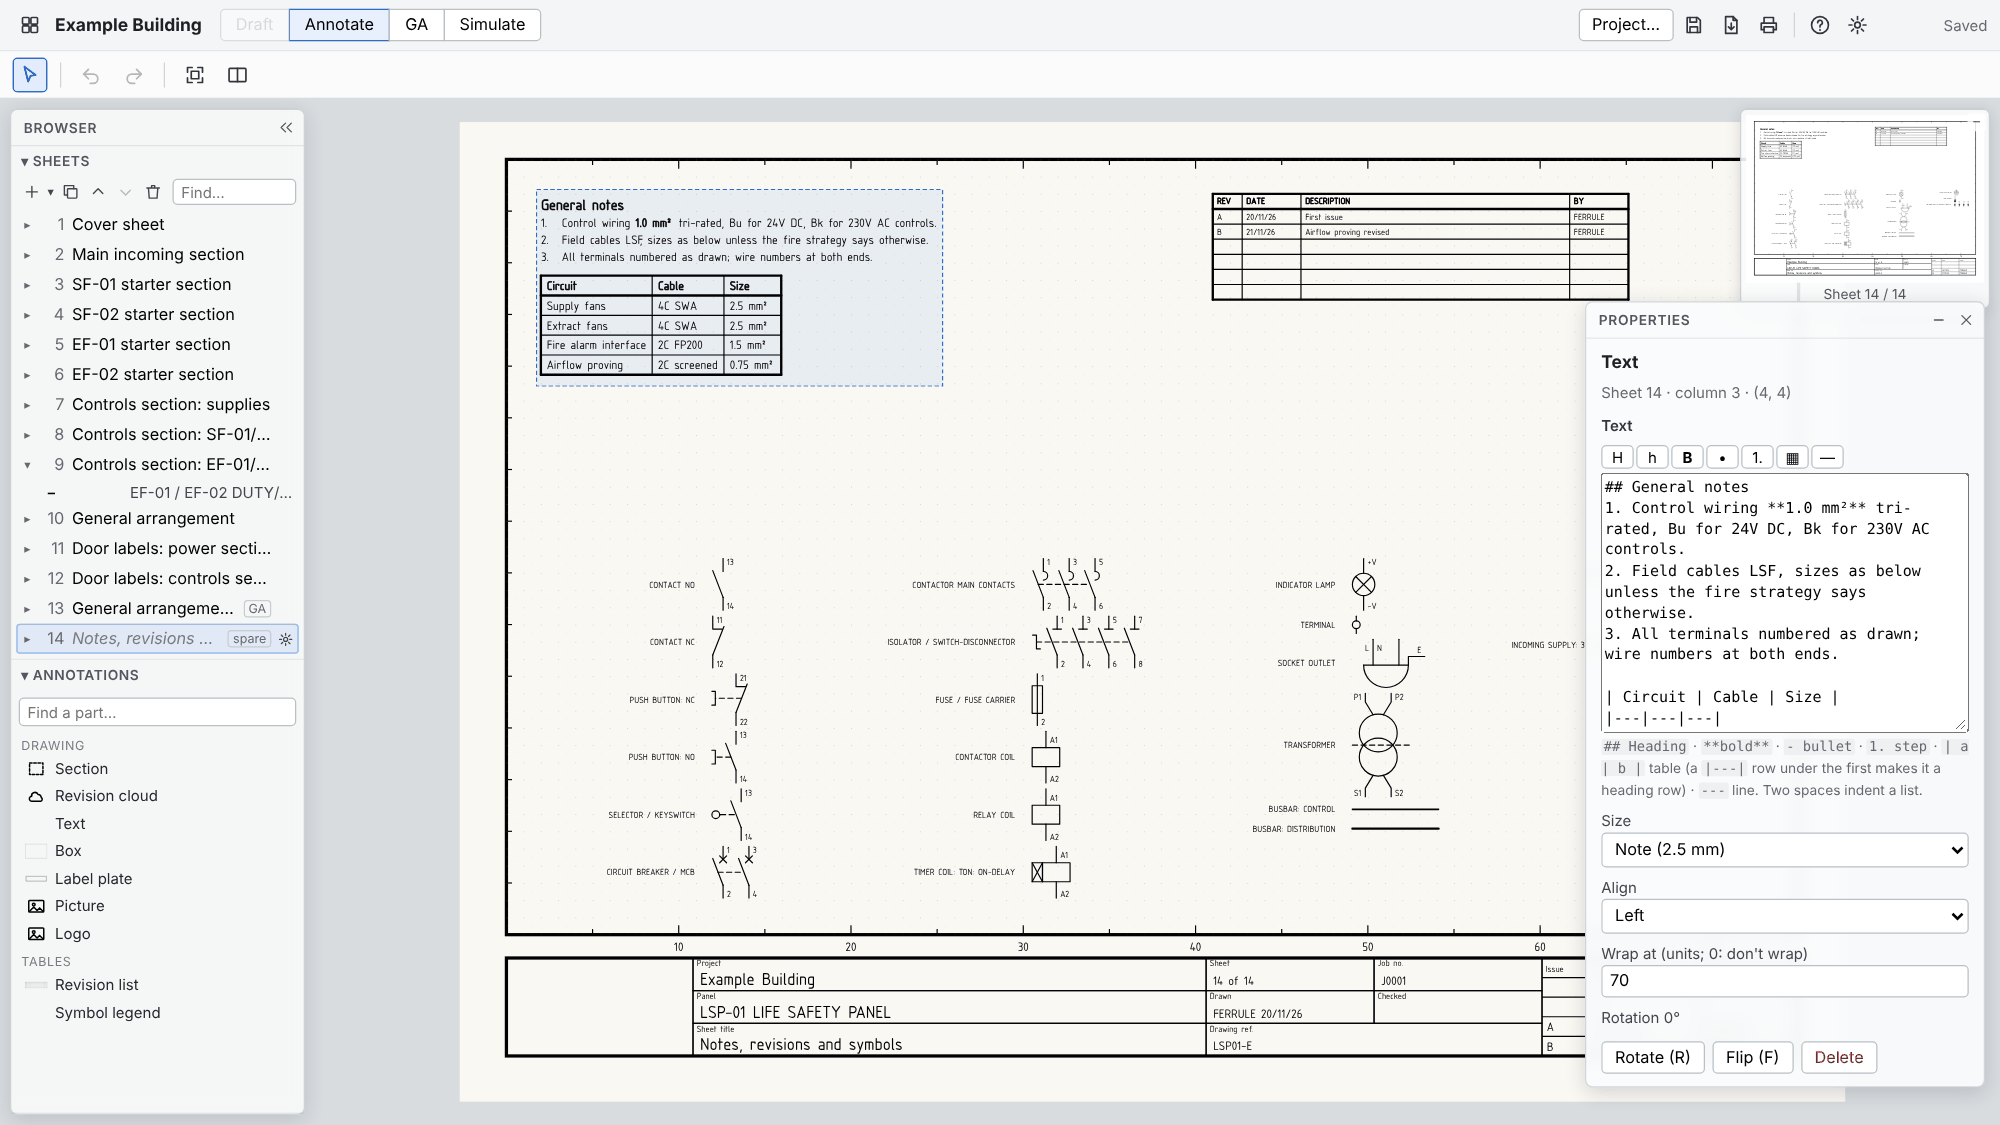
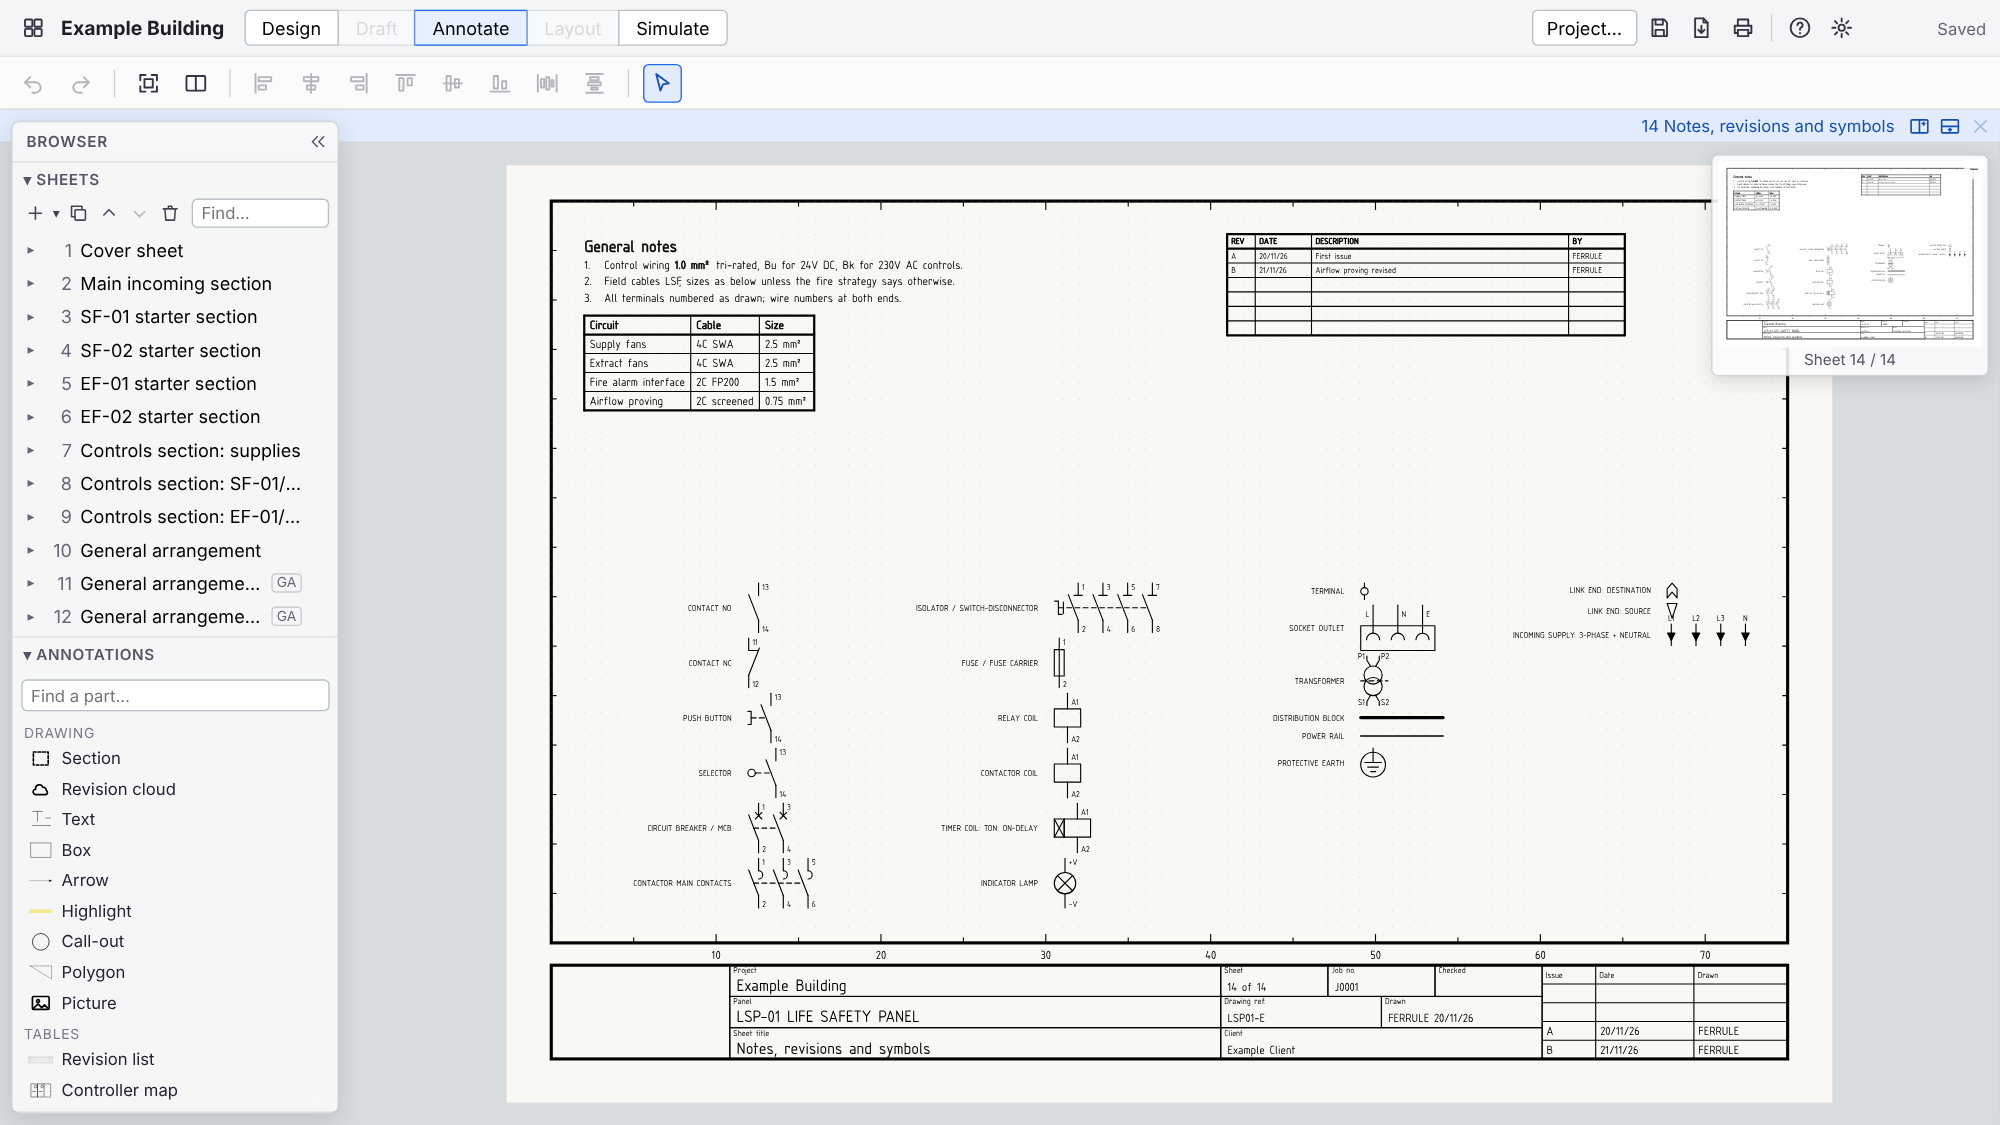
v0.5 step 7c: markers counted per connection (A28) (#133)
The Markers schedule puts a marker at each real end of a connection, where
a wire lands on a terminal or a part, never at a tee or a link end: a wire
carried across two sheets has two markers, not four. README pictures of
drafting, simulating, notes and the terminal block are retaken.

diff --git a/src/core/schedules.ts b/src/core/schedules.ts
@@ -155,14 +155,16 @@ export interface MarkerRow {
 }
 
 /**
- * Wire and core markers for a marker supplier (v0.4.x M10), one per wire
- * end. A panel wire has two, each the number of the terminal it lands on
- * (the first along the strip, if it lands on two), or with none, its own
- * number. A field core has two: at the panel end the terminal it goes into
- * (or its own number), at the field end the device's tag. A terminal's
- * number is read from the terminal itself, so a wire numbered by hand still
- * gets the terminal's. An end on a junction isn't a place a marker goes, so
- * it has none.
+ * Wire and core markers for a marker supplier (v0.4.x M10), one at each
+ * real end of a connection (v0.5 A28): where it lands on a terminal or a
+ * part. A tee (a junction) or a link end isn't a place a marker goes, so a
+ * wire carried across two sheets has two markers, not four. A panel wire's
+ * say the supply's number when it's on one (A23), else the terminal it lands
+ * on (the first along the strip, if it lands on two), or with none, its own
+ * number. A field core's say at the panel end the terminal it goes into (or
+ * its own number), at the field end the device's tag. A terminal's number is
+ * read from the terminal itself, so a wire numbered by hand still gets the
+ * terminal's.
  */
 export function wireMarkers(project: Project): MarkerRow[] {
   const rows: MarkerRow[] = [];
@@ -181,10 +183,11 @@ export function wireMarkers(project: Project): MarkerRow[] {
       const supply = !field && cond ? supplyOf(project, cond) : undefined;
       const panelText = supply ? String(supply.tag) : terms[0] ? displayTag(terms[0].el, project) || own : own;
       // A field core's field end: a device out in the field, not the terminal.
-      const fieldEnd = field ? (ends.find((e) => e.el!.zone === "external" && e.el!.symbol !== "terminal") ?? ends.find((e) => e.el!.symbol !== "terminal")) : undefined;
+      const real = (e: (typeof ends)[number]) => e.el!.symbol !== "junction" && e.el!.symbol !== "link";
+      const fieldEnd = field ? (ends.find((e) => real(e) && e.el!.zone === "external" && e.el!.symbol !== "terminal") ?? ends.find((e) => real(e) && e.el!.symbol !== "terminal")) : undefined;
       for (const e of ends) {
         const el = e.el!;
-        if (el.symbol === "junction") continue;
+        if (!real(e)) continue;
         const where = address(page, el.pos);
         if (field && e === fieldEnd) {
           const item = el.symbol === "plant-view" ? project.plant.find((p) => p.id === el.params.plant) : undefined;

diff --git a/src/core/v05step7.test.ts b/src/core/v05step7.test.ts
@@ -128,3 +128,22 @@ describe("step 7b: link ends in place of the link arrow (A27)", () => {
     expect(elementTexts(far, p).wireLabel).toBeUndefined();
   });
 });
+
+describe("step 7c: markers counted per connection (A28)", () => {
+  test("a wire carried across two sheets has two markers, one at each real end; none at a link end or a tee", async () => {
+    const { wireMarkers } = await import("./schedules");
+    const { p, pg } = sheet();
+    const k = addElement(p, pg, "contact", [20, 20]);
+    wire(p, pg, { terminal: [k.id, "14"] }, { free: [20, 40], label: "FAN RUN" });
+    const src = p.pages[0]!.elements.find((e) => e.symbol === "link")!;
+    const pg2 = addPage(p, "two").id;
+    const h = addElement(p, pg2, "lamp", [30, 40]);
+    wire(p, pg2, { free: [30, 20], linkTo: src.id }, { terminal: [h.id, "+V"] });
+    renumber(p);
+    const rows = wireMarkers(p);
+    expect(rows.length).toBe(2);
+    expect(rows.map((r) => r.where).sort()).toEqual(["1-11", "2-16"]);
+    // Both say the wire's one number.
+    expect(new Set(rows.map((r) => r.text)).size).toBe(1);
+  });
+});

diff --git a/README.md b/README.md
@@ -215,7 +215,7 @@ Everything else (Plant, Check, Schedules, Settings…) opens in a **window**: dr
 - **Controller…** (Design → Controller): the panel's controller (one per panel), its **modules in rail order** (power supply, host, DI, DO, UIO, AI, AO, with a channel count: a DI-8, a UIO-16) and any **spare slots**, with each slot's bus address (from rail order, or set to match its DIP switches). *Generate…* fills a module's pins from a pattern: the channels, each channel's pin ids (`VO RET CO`, `IO C`, `Y ⊥`), the first pin number, the names (`AO#` → AO1, AO2…), the first channel's number for makers that number across the controller, and any pin shared by several channels (a common `⊥`); *Pins and points…* touches up the rest. A channel's **label** follows the point allocated to it (*DPS1 flow*), and changes when that point or its plant is renamed or retagged; a channel with no point keeps a label typed by hand (*Pins and points…*). *Save model* keeps a module entered from its datasheet in the device table, pins and all (and from there in the shared library with its datasheet and GA size), so the next one is *Add a saved model…*. A module is tagged by where its first view is, prefix **A**: a DI module drawn at sheet 3, column 23 is `A3-23`, and its points are `A3-23:DI2`. *Place on sheet* in Design's **To draw** goes to Draft and puts it at the **top of a schematic sheet, terminals along the bottom**: a title row (`A3-23 · DI-8 · part of A2-5, AHU-1 outstation`), the heading, each channel's name, pin ids and numbers, and each point's label along its wire. Split a module across views and sheets by ticking the channels each shows (a break marks the cut edge); it keeps one tag, the continuation says where it carries on from, and a point drawn there is referred to with where it is, `A3-23:DO5 (4-10)`, so a reference always lands on the point. Wire every connection at the module, outputs that switch panel circuits out through link ends.
 - **Panel boundary:** tick it in the sheet settings. It's drawn as a **terminal block** across the sheet, with a little white space at each end: terminals placed on it (or dropped within a unit of it) become cells of the block with their number written up the cell (2.5 mm, like pin and wire numbers). Each cell is a column wide, so every terminal has its own column and its own number; one dropped closer than that to another moves along to the next free place. An earth terminal prints no number, just the earth sign centred in its cell (schedules and the GA still name it by its position). Panel wiring entering at the top and field cables leaving at the bottom. The strip name (`X1`) is at the left end of the block and again wherever the strip changes along it, so the cells only need the number (`3-13`); the terminal schedule lists them as `X1:3-13`, and a strip placed on the GA lists its terminals by sheet, then left to right. Drag the block (between terminals) to move it; its terminals go with it. Everything below is field equipment, and wires to it are drawn as dashed field cables. A wire crossing it without a terminal is flagged by **Check**.
 - **Section** (`B`, or *Section* in Annotate's parts): drag out a dashed section box. Drag its label to move it, any edge or corner to resize that side. Boxes and sections are picked by their edge, so parts inside them can still be clicked.
-- **Check** lists problems (boundary crossings, loose contacts, coils without contacts, unlinked link ends, duplicate tags, plant terminals shown nowhere or twice) with a *Show* button. **Schedules** gives terminal and field cable schedules (and below the cables, how many cores each field device needs and on which terminals), **markers** (two on every wire: a panel wire's say the terminal it lands on, or its own number with none; a field core's say the terminal at the panel end and the device's tag at the field end; *Group duplicates* gives each marker once with a count), the **IO schedule** (every controller's points: controller, module, point, form, pins, label and what it's wired to, through link ends too) and **plant points**, downloadable as CSV. Check also reports two modules at one bus address, modules not drawn or with no pins, and a controller with no modules.
+- **Check** lists problems (boundary crossings, loose contacts, coils without contacts, unlinked link ends, duplicate tags, plant terminals shown nowhere or twice) with a *Show* button. **Schedules** gives terminal and field cable schedules (and below the cables, how many cores each field device needs and on which terminals), **markers** (one at each real end of a wire, never at a tee or a link end, so a wire carried across two sheets has two: a panel wire on a supply says the supply's number, any other the terminal it lands on, or its own number with none; a field core's say the terminal at the panel end and the device's tag at the field end; *Group duplicates* gives each marker once with a count), the **IO schedule** (every controller's points: controller, module, point, form, pins, label and what it's wired to, through link ends too) and **plant points**, downloadable as CSV. Check also reports two modules at one bus address, modules not drawn or with no pins, and a controller with no modules.
 - **Tiles:** the drawing area can be split into tiles. **Split** in the top bar puts the active tile's sheet in a new tile beside it; each tile has a small bar with its sheet, *split right*, *split down* and *close* (the last sheet tile stays). Drag a divider to share the space. Every tile is a full sheet view with its own sheet, zoom and pan, and the same sheet can be open in two (an overview and a close-up). Click a tile to work in it: it's outlined, and the browser, Properties, the sheet list, the overview, Fit and `PgUp`/`PgDn` follow it. In **Simulate** every tile is live (states, live wires, clicks), sharing one simulation, and a door GA shows its lamps lit in their colour when their schematic lamps are lit (unlit ones dim): put the door in one tile and click the schematic in another. The door is for seeing only; the panel is worked through the circuit. **Windows go in tiles too:** every window (Plant, Templates, Schedules, Table, Controller, Distribution, Expectations, Check, Place parts, Project, Settings, help) can be dragged by its title bar close to the edge of a tile, which it splits; dragged anywhere else it just moves. Drag its tile out by the tile's bar to float it again; its menu button or the tile's close shuts it. Prompts (one step of an action, finished by a button: Renumber, Suggest, a name or a question) and the panels that come up by themselves (Properties, the Simulation panel) always float. Tiles aren't saved: a project opens with one.
 - **Align and distribute** (Draft, Annotate and Layout, the eight icons after Fit and Split, before Select): align left, centre or right, top, middle or bottom. One part picked aligns to the sheet (the space inside the border, above the title block), so a title can be centred on a cover sheet; two or more align to the last one clicked, which stays put; a box selection has no click order, so it aligns to the outline around them all. *Distribute across* or *down* (three or more) keeps the outer two and makes the gaps between them equal. Edges are a part's body, not its tag or label (the highlight on a part you've jumped to shows the same edges). Parts move as if dragged, to the grid, their wires following; GA items move in whole millimetres. Each is one undo step.
 - **Table** (a window) lists every element in the project: filter by type, plant or text, edit tags and labels in place, and tick rows to find-and-replace or fix tags in bulk (*Tag fixed*).

diff --git a/docs/functional-specification.md b/docs/functional-specification.md
@@ -738,7 +738,7 @@ Design's findings appear only once a project uses Design.
 - **SC-2** CSV files are named `<drawing ref., or the project id> <schedule>.csv`.
 - **SC-3** **Terminals:** Strip, Terminal, Sheet-col, Wire, Internal, External. A terminal is listed as `X1:3-13`.
 - **SC-4** **Field cables:** Plant, Description, Plant terminal, Wire, Panel terminal, Sheet-col; and below, **cores per device** (how many cores each field device needs and on which terminals), with its own CSV.
-- **SC-5** ~~**Markers:** two on every wire.~~ *(v0.5: A28)* A panel wire on a supply says the supply's number; any other panel wire says the terminal it lands on, or its own number when it reaches none. A field core's say the terminal at the panel end and the device's tag at the field end. *Group duplicates* gives each marker once with a count. Renumber first.
+- **SC-5** **Markers:** one at each real end of a wire, where it lands on a terminal or a part; not at a tee or a link end, so a wire carried across two sheets has two. A panel wire on a supply says the supply's number; any other panel wire says the terminal it lands on, or its own number when it reaches none. A field core's say the terminal at the panel end and the device's tag at the field end. *Group duplicates* gives each marker once with a count. Renumber first.
 - **SC-6** **IO points:** Controller, Module, Point, Form, Pins, Label, Wired to (followed through link ends). With no controller it says *No controller yet (Design → Controller)*.
 - **SC-7** **Plant points:** Device, Description, Point, Form, Pins, Wired to.
 - **SC-8** **Bill of materials:** GA sheet, Item, Maker, Part number, Qty, Unit, Tags. It's counted from the GA sheets only: devices by the device picked (or their generic size), each distribution block on a line of its own saying the ways it needs (*needs at least 5 ways*), terminals each, label plates, and DIN rail and trunking by length. A schematic part never placed on a GA isn't on it (CK-41). *(v0.5: A71. Also as a table placed on a GA sheet)*

diff --git a/docs/DESIGN.md b/docs/DESIGN.md
@@ -391,6 +391,7 @@ Reference drawings from other companies are proprietary. They are never committe
 | Title block rows, v0.5 (2026-11-27) | A1 laid out again (`titleblock.ts`): Sheet, Job no., Checked in thirds; Drawing ref., Drawn in halves; Client across. No file change |
 | One wire label, turned text, v0.5 step 7a (2026-11-27) | A26: `wireTexts` (`wires.ts`) lays out number then colour in the reading direction around one point (`labelAround`): the longest leg's middle, or `Segment.labelAt`, set by `setWireLabelAt` (`numberAt`, `colourAt` and `reverseSegment` gone). The function no longer prints. A29: `SymbolDef.turnsText`; `nextRotation` and `allowedRotation` keep a text level or at 270, where `localGeometry` turns its prims and makes its text vertical. File format 12 |
 | Link ends, v0.5 step 7b (2026-11-27) | A27: the `offpage` part is the `link` symbol (`palette: false`): outlined head (source) or notched tail (destination), struck through until linked, terminal at its origin. `WireEnd` gains `{free}`; `wire()` makes the link end, turned by `linkEndTurn`, and links it when carried on (`linkTo`). `connect` refuses a second wire to one; `dropOrphanLinkEnds` removes one left with no wire. The join of an arrow sitting on a pin is gone (conductors, network). `labelOnLinkEnd` / `wireLabelOf` (`wires.ts`): a wire too short for its label leaves it to its link end (`GeometryText.wireLabel`). File format 13 |
+| Markers per connection, v0.5 step 7c (2026-11-27) | A28: `wireMarkers` (`schedules.ts`) skips a junction or a link end as a place for a marker, and never takes one for a field core's field end, so a wire across two sheets has a marker at each real end. No file change |
 
 ## 16. Open questions
 

diff --git a/docs/design-v0.5.md b/docs/design-v0.5.md
@@ -307,6 +307,8 @@ Judgement calls made while building, by step, with the reason.
 - **Carrying on in one move** (*Link…* from a source, then bare paper) starts the wire tool there with the arriving end already linked. Clicking a link end instead pairs as before. *Link to a new arrow* is gone.
 - **When the link end prints its wire's label:** when the wire ends at it and the label is longer than the wire's longest run, unless the label has been dragged by hand. It prints above a horizontal end and left of a vertical one, reading left to right.
 - **The legend** shows a link end in each of its two shapes, linked.
+- **A28: a marker goes at each real end of a connection,** where a wire lands on a terminal or a part, never at a tee or a link end. LSP-01's schedule loses 48 rows, one for each of its link ends. A field core whose panel side runs through a link end still has its panel-end marker at the terminal and its field-end one at the device.
+- **README pictures:** the drafting, simulating, notes, terminal block and printed sheet pictures are retaken here, having fallen behind the interface since v0.4.x. Design, Controller, Network and Layout's are retaken in steps 8 to 11, which rework those views.
 - **Link ends moved the file format to 13.** Claude's `connect` takes `{x, y}` for a bare end (with a label, and `link` to carry a source on); `link` pairs two link ends; `add_element` refuses one.
 
 ### Title block (ruled 27 Nov 2026, before step 7)

diff --git a/docs/advancements-v0.5.md b/docs/advancements-v0.5.md
@@ -121,7 +121,7 @@ Decided in discussion. The aim: Ferrule runs the same way on a desk or on one ce
   - The design and the shapes are in `design-wire-labels-and-links.md` §3 and `mockups\link-ends.png`. Build from that, not from this line.
   - Goes with A23: a link end can't be set to a supply or carry a typed reference.
 
-- [ ] **A28. Markers counted at link arrows.** *Fix. SC-5. Build 0.4.5.* The Markers schedule is built from the lines as drawn, so it puts a marker at each link arrow, where none goes. A wire across two sheets is one wire with two ends and two markers. Count markers per connection, once at each real end.
+- [x] **A28. Markers counted at link arrows.** *Built: PR 133.* *Fix. SC-5. Build 0.4.5.* The Markers schedule is built from the lines as drawn, so it puts a marker at each link arrow, where none goes. A wire across two sheets is one wire with two ends and two markers. Count markers per connection, once at each real end.
   - Found by running the schedule on the QA project, 26 Nov 2026: 34 rows too many, one for each of its 34 arrows.
 
 - [x] **A29. Text that can be turned.** *Built: PR 131.* *Missing. AN-2, AN-3. Build 0.4.5.* A Text annotation can't be drawn turned, so a note can't run up the sheet beside a vertical wire. With the function no longer printed on wires (A26), a note is how a wire gets extra description, so text needs to turn in 90° steps like a part. Turned text reads bottom up.
